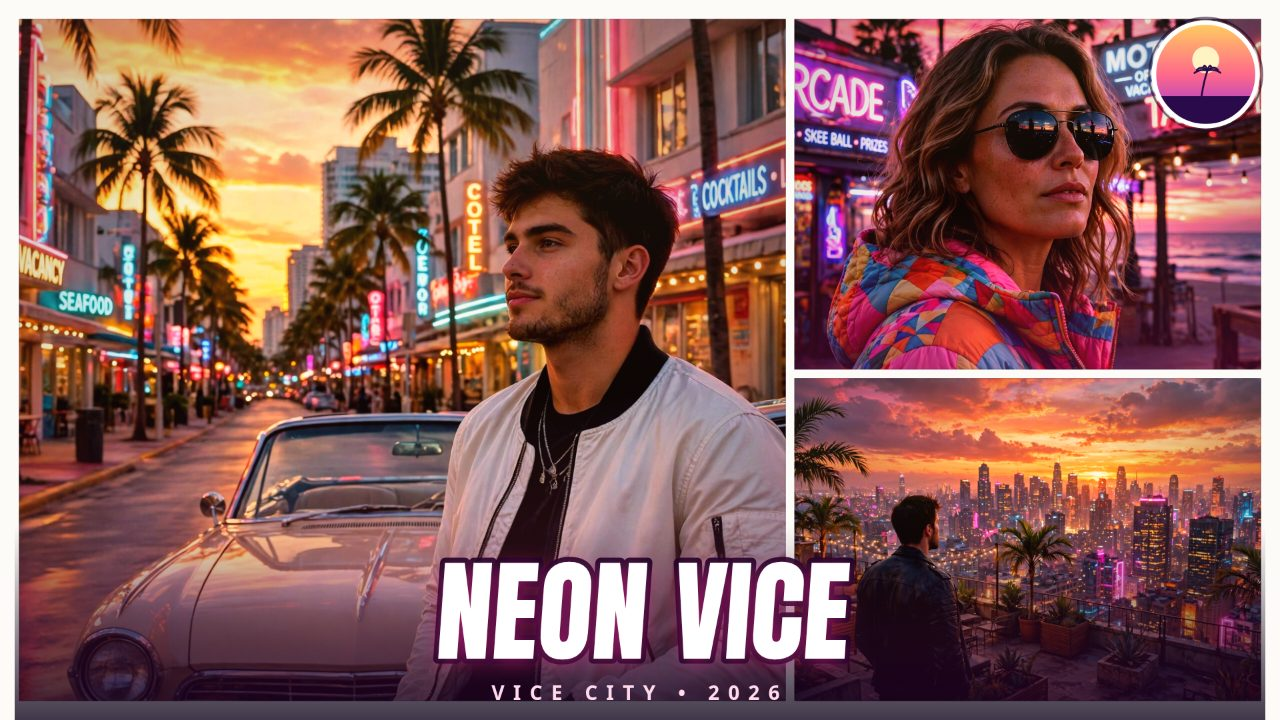
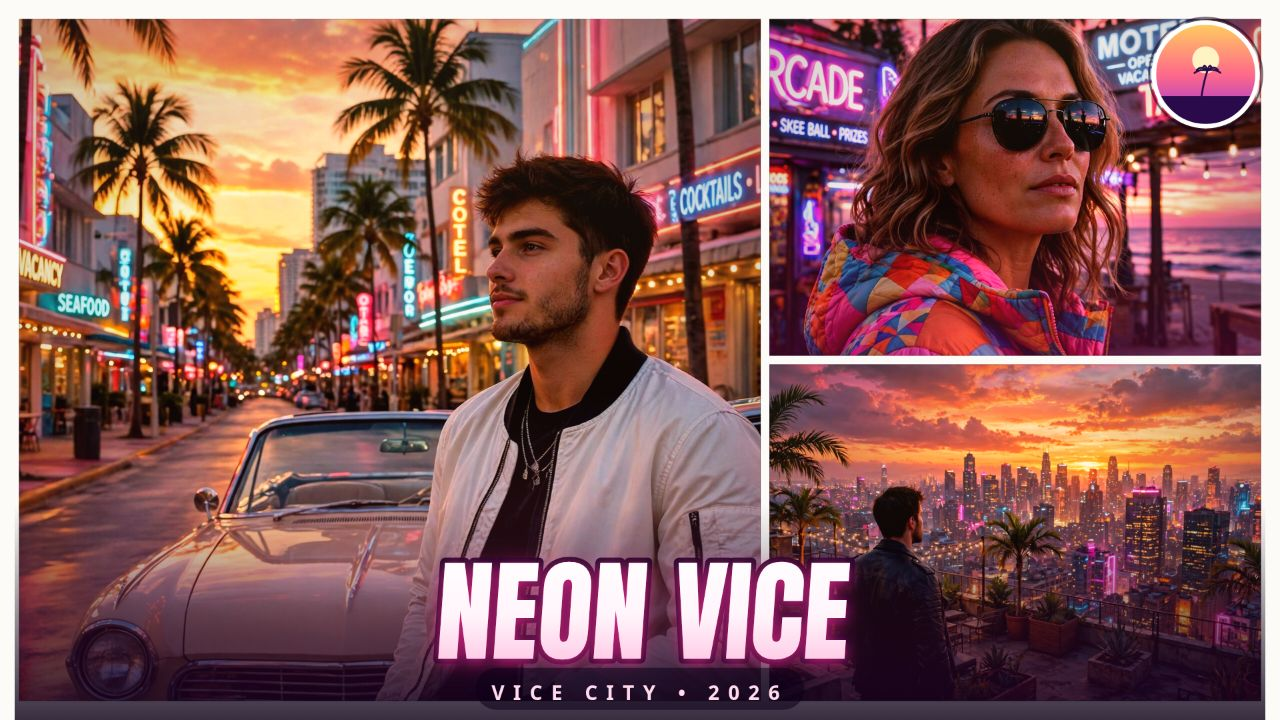
Neon Vice Cover Studio: polish cover lettering, grid balance, and export handling
- Headline now has a white-to-pink gradient fill with a double neon glow;
  tagline sits on a dark pill so it stays readable over bright photos.
- Vice Grid rebalanced to 0.60 hero with an even 0.50/0.50 stacked pair.
- Exports lock the buttons while a PNG writes, run one size at a time,
  and name files from the headline (e.g. neon-vice-1080x1080.png).
- Drag pans clamped to the slider range; keyboard focus and disabled
  export-button states polished; main.ts now reports its hand-in.
- Screenshots regenerated in headless Chrome from the staged scenes.

diff --git a/app/src/editor.js b/app/src/editor.js
@@ -2,11 +2,21 @@
 // per-panel cropping (drag to pan, scroll to zoom, or the sliders), the live
 // preview, and PNG export in the three post sizes. A `?shot=` query stages a
 // fixed scene for a screenshot instead (stageScene, below).
-import { FRAMES, OUTPUT_SIZES, newCrops, newCrop } from './frames.js';
+//
+// Polished pass on exports: the export buttons lock while a PNG is being
+// written (no double-clicks, no overlapping downloads), "Export all three"
+// runs the sizes one at a time with a short pause between them so the
+// browser finishes each download, and file names are built from the
+// headline (slugified, falling back to "neon-vice-cover") instead of a
+// fixed name. Drag pans are clamped to the slider range via clampPan.
+
+import { FRAMES, OUTPUT_SIZES, newCrops, newCrop, clampPan } from './frames.js';
 import { paintPoster, renderForExport, frameBoxes } from './painter.js';
 
 const poster = document.getElementById('poster');
 const notice = document.getElementById('notice');
+const downloadBtn = document.getElementById('download');
+const downloadAllBtn = document.getElementById('download-all');
 const SAMPLE_NAMES = ['boulevard', 'beach', 'skyline'];
 
 const cover = {
@@ -22,6 +32,7 @@ const cover = {
 };
 
 let outputSize = OUTPUT_SIZES[0];
+let exporting = false;
 
 /** Loads an image from a URL, resolving once it can be painted. */
 export function fetchImage(url) {
@@ -64,12 +75,29 @@ async function fillWithSamples() {
   await Promise.all(SAMPLE_NAMES.map((name, i) => putSampleIn(i, name)));
 }
 
+/** Turns the headline into a safe file-name slug; "Neon Vice" -> "neon-vice". */
+export function slugifyHeadline(text) {
+  const slug = (text || '').toLowerCase().trim().replace(/[^a-z0-9]+/g, '-').replace(/^-+|-+$/g, '');
+  return slug || 'neon-vice-cover';
+}
+
+function exportFileName(w, h) {
+  return `${slugifyHeadline(cover.headline)}-${w}x${h}.png`;
+}
+
+function setExporting(busy) {
+  exporting = busy;
+  downloadBtn.disabled = busy;
+  downloadAllBtn.disabled = busy;
+}
+
 function savePNG(w, h) {
-  return new Promise((resolve) => {
+  return new Promise((resolve, reject) => {
     renderForExport(cover, w, h).toBlob((blob) => {
+      if (!blob) return reject(new Error('PNG export produced no data'));
       const a = document.createElement('a');
       a.href = URL.createObjectURL(blob);
-      a.download = `neon-vice-cover-${w}x${h}.png`;
+      a.download = exportFileName(w, h);
       a.click();
       setTimeout(() => URL.revokeObjectURL(a.href), 5000);
       resolve(blob);
@@ -78,9 +106,18 @@ function savePNG(w, h) {
 }
 
 async function exportSingle(size) {
-  const blob = await savePNG(size.w, size.h);
-  notice.textContent = `Saved neon-vice-cover-${size.w}x${size.h}.png (${Math.round(blob.size / 1024)} KiB)`;
-  return blob;
+  if (exporting) return null;
+  setExporting(true);
+  try {
+    const blob = await savePNG(size.w, size.h);
+    notice.textContent = `Saved ${exportFileName(size.w, size.h)} (${Math.round(blob.size / 1024)} KiB)`;
+    return blob;
+  } catch (err) {
+    notice.textContent = `Export failed: ${err.message}`;
+    return null;
+  } finally {
+    setExporting(false);
+  }
 }
 
 // --- photo slots -----------------------------------------------------------
@@ -161,10 +198,22 @@ document.querySelectorAll('input[name=ratio]').forEach((radio) => {
     paint();
   });
 });
-document.getElementById('download').addEventListener('click', () => exportSingle(outputSize));
-document.getElementById('download-all').addEventListener('click', async () => {
-  for (const size of OUTPUT_SIZES) await exportSingle(size);
-  notice.textContent = 'Saved all three sizes: 1080×1080, 1080×1350, 1920×1080.';
+downloadBtn.addEventListener('click', () => exportSingle(outputSize));
+downloadAllBtn.addEventListener('click', async () => {
+  if (exporting) return;
+  setExporting(true);
+  try {
+    for (const size of OUTPUT_SIZES) {
+      await savePNG(size.w, size.h);
+      // Give the browser a beat to finish each download before the next.
+      await new Promise((resolve) => setTimeout(resolve, 350));
+    }
+    notice.textContent = 'Saved all three sizes: 1080×1080, 1080×1350, 1920×1080.';
+  } catch (err) {
+    notice.textContent = `Export failed: ${err.message}`;
+  } finally {
+    setExporting(false);
+  }
 });
 
 // --- preview: click to pick a panel, drag to pan, scroll to zoom -----------------
@@ -190,8 +239,8 @@ poster.addEventListener('pointermove', (e) => {
   if (!drag) return;
   const hit = panelUnder(e.clientX, e.clientY);
   const crop = pickedCrop();
-  crop.dx = drag.start.dx + (hit.x - drag.x) / drag.box.w;
-  crop.dy = drag.start.dy + (hit.y - drag.y) / drag.box.h;
+  crop.dx = clampPan(drag.start.dx + (hit.x - drag.x) / drag.box.w);
+  crop.dy = clampPan(drag.start.dy + (hit.y - drag.y) / drag.box.h);
   paint();
 });
 poster.addEventListener('pointerup', () => { drag = null; });

diff --git a/app/src/painter.js b/app/src/painter.js
@@ -3,6 +3,13 @@
 // per panel), a Vice City neon-sunset wash, heavy poster lettering along the
 // foot, and an optional vector palm-sunset emblem. All of it is drawn here
 // from scratch: no Rockstar logo, artwork or font anywhere.
+//
+// Polished pass: the headline is now filled with a white-to-warm-pink
+// vertical gradient (instead of flat white) with a second, softer neon glow
+// underneath, and the tagline sits on a dark translucent pill so it stays
+// readable over bright photos. The foot scrim is a touch taller (0.30 of
+// the cover) so long headlines keep their contrast.
+
 import { FRAMES } from './frames.js';
 
 /** Pixel boxes for the panels of a cover this size, borders and gutters in. */
@@ -120,12 +127,13 @@ function sunsetWash(ctx, box, warmth) {
   ctx.fillRect(box.x, box.y, box.w, box.h);
 }
 
-/** The words: a dark scrim along the foot, the headline in Anton, tagline under it. */
+/** The words: a dark scrim along the foot, the headline in Anton with a
+ *  white-to-pink gradient and a double neon glow, tagline on a dark pill. */
 function paintHeadline(ctx, w, h, edge, cover) {
-  const scrimH = h * 0.27;
+  const scrimH = h * 0.3;
   const scrim = ctx.createLinearGradient(0, h - scrimH, 0, h);
   scrim.addColorStop(0, 'rgba(12, 0, 24, 0)');
-  scrim.addColorStop(1, 'rgba(12, 0, 24, 0.78)');
+  scrim.addColorStop(1, 'rgba(12, 0, 24, 0.82)');
   ctx.fillStyle = scrim;
   ctx.fillRect(edge, h - scrimH, w - edge * 2, scrimH);
 
@@ -137,9 +145,10 @@ function paintHeadline(ctx, w, h, edge, cover) {
       size -= 2;
       ctx.font = `${size}px Anton, 'Arial Black', sans-serif`;
     }
+    const baselineY = h - h * 0.085;
     ctx.save();
     // A slight lean, the poster-lettering slant.
-    ctx.translate(w / 2, h - h * 0.085);
+    ctx.translate(w / 2, baselineY);
     ctx.transform(1, 0, -0.07, 1, 0, 0);
     ctx.textAlign = 'center';
     ctx.textBaseline = 'alphabetic';
@@ -147,10 +156,18 @@ function paintHeadline(ctx, w, h, edge, cover) {
     ctx.strokeStyle = 'rgba(18, 0, 32, 0.92)';
     ctx.lineWidth = Math.max(2, size * 0.09);
     ctx.strokeText(headline, 0, 0);
-    ctx.fillStyle = '#ffffff';
+    // Soft outer glow first, then the crisp gradient fill on top.
     ctx.shadowColor = 'rgba(255, 45, 150, 0.55)';
-    ctx.shadowBlur = size * 0.18;
+    ctx.shadowBlur = size * 0.22;
     ctx.shadowOffsetY = size * 0.03;
+    ctx.fillStyle = 'rgba(255, 45, 150, 0.9)';
+    ctx.fillText(headline, 0, 0);
+    ctx.shadowBlur = size * 0.1;
+    const grad = ctx.createLinearGradient(0, -size, 0, size * 0.12);
+    grad.addColorStop(0, '#ffffff');
+    grad.addColorStop(0.55, '#fff4fa');
+    grad.addColorStop(1, '#ffc2e2');
+    ctx.fillStyle = grad;
     ctx.fillText(headline, 0, 0);
     ctx.restore();
   }
@@ -162,8 +179,19 @@ function paintHeadline(ctx, w, h, edge, cover) {
     ctx.textAlign = 'center';
     ctx.textBaseline = 'alphabetic';
     try { ctx.letterSpacing = `${Math.round(size * 0.42)}px`; } catch { /* older browsers */ }
+    const textW = ctx.measureText(tagline).width;
+    const pillW = Math.min(w * 0.9, textW + size * 1.6);
+    const pillH = size * 2.1;
+    const pillX = w / 2 - pillW / 2;
+    const pillY = h - h * 0.028 - size * 0.55 - pillH / 2;
+    ctx.save();
+    ctx.fillStyle = 'rgba(12, 0, 24, 0.55)';
+    ctx.beginPath();
+    ctx.roundRect(pillX, pillY, pillW, pillH, pillH / 2);
+    ctx.fill();
     ctx.fillStyle = '#ffd9ec';
     ctx.fillText(tagline, w / 2, h - h * 0.028);
+    ctx.restore();
     try { ctx.letterSpacing = '0px'; } catch { /* older browsers */ }
   }
 }

diff --git a/app/style.css b/app/style.css
@@ -1,4 +1,7 @@
-/* Neon Vice Cover Studio: a dark editor with a pink-orange sunset accent. */
+/* Neon Vice Cover Studio: a dark editor with a pink-orange sunset accent.
+   Polished pass: clearer keyboard focus, a disabled state for the export
+   buttons while a PNG is being written, and a softer, more readable hint
+   style for the new export note. */
 :root {
   --night: #150a24;
   --card: #221239;
@@ -19,14 +22,18 @@ html, body { margin: 0; min-height: 100%; background: var(--night); color: var(-
 fieldset { margin: 0; padding: 14px; border: 1px solid var(--card-edge); border-radius: 12px; background: var(--card); display: flex; flex-direction: column; gap: 10px; }
 legend { font-weight: 800; letter-spacing: 0.4px; padding: 0 6px; }
 .hint { margin: 0; color: var(--soft); font-size: 13px; }
+.hint code { color: var(--ink); background: #160b28; padding: 1px 5px; border-radius: 5px; font-size: 12px; }
 label { display: flex; flex-direction: column; gap: 6px; font-weight: 600; font-size: 14px; }
 label.check { flex-direction: row; align-items: center; gap: 8px; font-weight: 600; }
 input[type=text] { font: inherit; color: var(--ink); background: #160b28; padding: 9px 10px; border: 1px solid var(--rule); border-radius: 8px; }
+input[type=text]:focus, button:focus-visible, .file-btn:focus-visible { outline: 2px solid var(--amber); outline-offset: 2px; }
 input[type=range] { width: 100%; accent-color: var(--pink); }
 input[type=file] { display: none; }
 button { font: inherit; font-weight: 700; padding: 10px 12px; border: 1px solid var(--rule); border-radius: 8px; background: #2c1747; color: var(--ink); cursor: pointer; }
 button:hover { border-color: var(--pink); }
+button:disabled { opacity: 0.55; cursor: wait; border-color: var(--rule); }
 button.primary { background: linear-gradient(90deg, var(--pink), var(--amber)); border: 0; color: #fff; font-size: 16px; }
+button.primary:disabled { opacity: 0.6; }
 .file-btn { display: inline-block; padding: 7px 10px; border-radius: 7px; background: #2c1747; border: 1px solid var(--rule); cursor: pointer; font-weight: 700; }
 .file-btn:hover { border-color: var(--pink); }
 .slot { display: flex; gap: 10px; align-items: center; padding: 8px; border: 1px solid var(--card-edge); border-radius: 10px; background: #1a0e30; }
@@ -37,6 +44,7 @@ button.primary { background: linear-gradient(90deg, var(--pink), var(--amber)); 
 .choice-list { display: flex; flex-direction: column; gap: 8px; }
 .choice-list label { flex-direction: row; align-items: center; gap: 8px; font-weight: 600; }
 #notice { margin: 0; color: #8dffb0; min-height: 1.2em; font-size: 13px; }
+#export-note { font-size: 12px; }
 .stage { position: sticky; top: 28px; display: flex; flex-direction: column; align-items: center; gap: 10px; }
 #poster { width: min(72vh, 62vw); height: auto; max-height: 82vh; background: #fdfbf7; box-shadow: 0 14px 44px rgba(0, 0, 0, 0.55); border-radius: 4px; cursor: grab; touch-action: none; }
 #poster:active { cursor: grabbing; }

diff --git a/app/src/frames.js b/app/src/frames.js
@@ -4,15 +4,19 @@
 // A frame is a set of panels. Every panel is a rectangle in fractions of the
 // cover (x, y, w, h) plus the photo slot it shows by default (0, 1 or 2).
 // The painter clips each photo to its panel, so any photo fills any shape.
+// Polished pass: the Vice Grid hero is now 0.60 wide (was 0.62) so the two
+// stacked panels beside it get a little more room, and the stacked pair is
+// split evenly at 0.50 / 0.50 instead of 0.52 / 0.48, so neither side panel
+// feels squeezed on square and portrait covers.
 
 export const FRAMES = {
   grid: {
     label: 'Vice Grid',
     note: 'One big hero panel, two stacked beside it',
     panels: [
-      { x: 0, y: 0, w: 0.62, h: 1, slot: 0 },
-      { x: 0.62, y: 0, w: 0.38, h: 0.52, slot: 1 },
-      { x: 0.62, y: 0.52, w: 0.38, h: 0.48, slot: 2 },
+      { x: 0, y: 0, w: 0.6, h: 1, slot: 0 },
+      { x: 0.6, y: 0, w: 0.4, h: 0.5, slot: 1 },
+      { x: 0.6, y: 0.5, w: 0.4, h: 0.5, slot: 2 },
     ],
   },
   columns: {
@@ -46,4 +50,10 @@ export function newCrop() {
 /** One starting crop per photo slot (three panels at most). */
 export function newCrops() {
   return [newCrop(), newCrop(), newCrop()];
+}
+
+/** Clamps a pan to the slider range the editor exposes, so a fast drag
+ *  can never fling a photo off its panel. */
+export function clampPan(value) {
+  return Math.min(0.45, Math.max(-0.45, value));
 }

diff --git a/main.ts b/main.ts
@@ -6,8 +6,12 @@
 // buildDossier library. Outside the grader, MAKEFUN_OUTPUT_DIR stands in
 // for /output:
 //   mkdir -p out && MAKEFUN_OUTPUT_DIR=out node main.ts
+//
+// Polished pass: the copy step now reports what it handed in (app files
+// and screenshots found), so a silent empty hand-in is obvious at a glance
+// instead of surfacing only later as a failed gate check.
 
-import { cpSync, existsSync, mkdirSync, writeFileSync } from 'node:fs';
+import { cpSync, existsSync, mkdirSync, readdirSync, writeFileSync } from 'node:fs';
 import { join } from 'node:path';
 import { fileURLToPath } from 'node:url';
 import { buildDossier } from './vendor/makefun-app.ts';
@@ -22,6 +26,10 @@ function copyEntryTree() {
   if (existsSync(join(here, 'screenshots'))) {
     cpSync(join(here, 'screenshots'), join(outDir, 'screenshots'), { recursive: true });
   }
+  const shots = existsSync(join(outDir, 'screenshots'))
+    ? readdirSync(join(outDir, 'screenshots')).filter((f) => /\.(jpe?g|png)$/i.test(f))
+    : [];
+  console.log(`handed in app/ and ${shots.length} screenshot(s): ${shots.join(', ') || 'none'}`);
 }
 
 // The gate's caps (reference/gate.json): text_max_bytes shapes the dossier
@@ -43,3 +51,4 @@ function writeDossier() {
 
 copyEntryTree();
 writeDossier();
+console.log(`dossier written to ${join(outDir, 'dossier.json')}`);

diff --git a/app/index.html b/app/index.html
@@ -69,6 +69,8 @@
       <legend>Words</legend>
       <label>Headline <input id="headline" type="text" maxlength="30" value="Neon Vice"></label>
       <label>Tagline <input id="tagline" type="text" maxlength="48" value="Vice City • 2026"></label>
+      <p class="hint">The headline is the big poster lettering — and it also
+        names your exported PNG, e.g. <code>neon-vice-1080x1080.png</code>.</p>
     </fieldset>
 
     <fieldset>
@@ -86,7 +88,9 @@
       </div>
       <button id="download" type="button" class="primary">Export this size</button>
       <button id="download-all" type="button">Export all three sizes</button>
-      <p id="notice" role="status"></p>
+      <p class="hint" id="export-note">Exports run one at a time — the buttons
+        pause while a PNG is being written, so downloads never overlap.</p>
+      <p id="notice" role="status" aria-live="polite"></p>
     </fieldset>
   </aside>
 

diff --git a/README.md b/README.md
@@ -18,13 +18,18 @@ City neon-sunset grade — and exports it as a PNG to share.
   Tick "One photo for all panels" to fill every panel from Photo A.
 - **Crop and position per panel** — click a panel in the preview to pick
   it, drag to move its photo, scroll to zoom, or use the Zoom / Pan sliders.
+  Drag pans are clamped to the slider range, so a fast drag can never fling
+  a photo off its panel.
 - **Caption lettering** — a headline in heavy condensed Anton (SIL Open Font
-  License, vendored under `app/fonts/`) with a poster slant and neon glow,
-  plus a letterspaced tagline.
+  License, vendored under `app/fonts/`) with a poster slant, a
+  white-to-pink gradient fill and a double neon glow, plus a letterspaced
+  tagline on a dark translucent pill so it stays readable over bright photos.
 - **Neon-sunset grade** — a warm-to-magenta grade, vignette and a
   vector-drawn palm-sunset emblem, all adjustable.
 - **One-step export** — PNG at 1080×1080, 1080×1350 or 1920×1080, or all
-  three at once.
+  three at once. Export buttons lock while a PNG is being written and the
+  "all three" run plays one size at a time, so downloads never overlap;
+  files are named from your headline, e.g. `neon-vice-1080x1080.png`.
 
 Everything runs offline in the browser: no network requests, no uploads,
 photos never leave your machine. All art in the app is original — no
